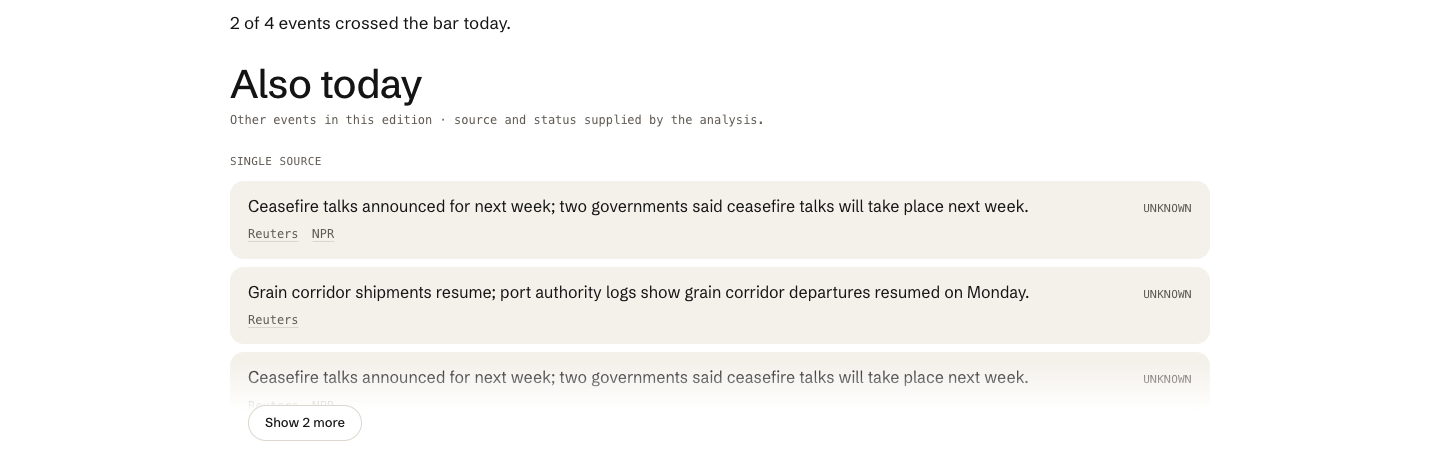
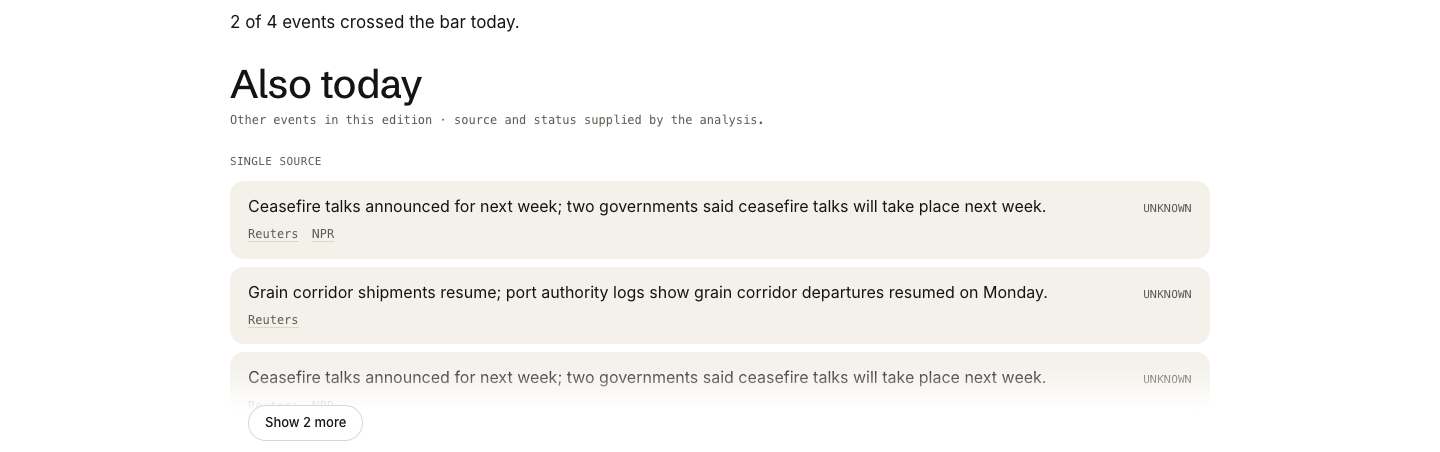
web(cabinet): Inter as the interface face on the app routes; DECISIONS item 9 amended
From Anastasia's name as the look owner, with Vadim's agreement given in
person (his on-record confirmation requested in Issue #2): item 9 of
DECISIONS › User account and interface now sets the signed-in app
routes' interface text in Inter and keeps Schibsted for headlines, card
titles, the landing and the gate screens; the earlier whole-portal
clause stays marked superseded. `--ui` is Inter again; the interim
alias of cdfbd8d is recorded as superseded. Review pictures re-taken.

diff --git a/web/app/identity.css b/web/app/identity.css
@@ -27,12 +27,12 @@
      metadata in the mono; the landing and the gate keep --body. Why: Anastasia's reference of 2026-10-27,
      untitled.stream, sets everything in one neutral UI grotesque at small sizes with mono metadata, and the
      cabinet should read as a tool rather than a front page. DECISIONS item 9 is amended once she approves. */
-  /* DECISION(2026-10-27, Anastasia/Claude Code; Vadim's review of PR #62): the interface face on the app routes stays
-     the canonical grotesque of DECISIONS › User account and interface item 9, so `--ui` aliases `--body`; the Inter
-     proposal above is deferred, not deleted: a font change follows an explicit amendment of item 9 with human
-     approval, and then this one line changes. Why: AGENTS.md §1, no code contradicting a canonical decision while
-     its amendment is pending. Deferred value: "Inter Variable", -apple-system, system-ui, sans-serif. */
-  --ui: var(--body);
+  /* DECISION(2026-10-27, Anastasia/Claude Code, agreed with Vadim in person): the interface face on the app routes is
+     Inter, per DECISIONS › User account and interface item 9 as amended 2026-10-27 from Anastasia's name; headlines,
+     card titles, the landing and the gate screens keep Schibsted. The interim state of PR #62's head cdfbd8d
+     (`--ui: var(--body)` while the amendment was pending) is superseded by that amendment. Why: untitled.stream's
+     lesson, one neutral UI grotesque for interface text and the display face for titles. */
+  --ui: "Inter Variable", -apple-system, system-ui, sans-serif;
   --mono: ui-monospace, "SF Mono", Menlo, Consolas, monospace;
   /* DECISION(2026-10-26, Anastasia/Claude Code): one page measure for every route: content in a centred column
      of 1024 px including 22 px gutters (980 px of text), as on apple.com; a full-width bar or section reads

diff --git a/docs/DECISIONS.md b/docs/DECISIONS.md
@@ -150,13 +150,13 @@ The account is built around the topics the user selects. The interface is simple
 6. **Roundup page** — "Also today": one line per event below the bar, grouped, with source and status.
 7. **History** — a tab on the topic page, by day, labeled like "digest for 10/12/2026".
 8. **Shift in party positions** — under the topic, outside the days. Implemented after the hackathon; data accumulates from day one.
-9. **Type and color.** Display: SF Pro Rounded via the CSS generic `ui-rounded` (Safari, iOS), with Nunito as the fallback elsewhere, packaged locally from npm like Inter (2026-10-25, Anastasia: the portal makes no request to Google Fonts or any other third-party host; the earlier wording "Nunito from Google Fonts" is superseded, the font is the same). Body: the system font, with Inter as the fallback. White background, one red accent for the date, cohort colors blue (left) and red (right), darker for big outlets and lighter for small ones. Status words, not colored pills. *Palette amended 2026-10-26 (Anastasia, WEB-UX-04; the "one red accent" clause is superseded, kept here as history):* the identity is a newspaper's, black ink on white paper with warm greys and one umber-brown accent for the date line, markers and hover states; no red in the identity, because a red accent reads as a brand line rather than a paper. The cohort colours blue (left) and red (right) stay as data colours in cohort comparisons only, never as decoration. Named tokens: `web/DESIGN.md`. *Type amended 2026-10-26 (Anastasia, WEB-UX-04; the rounded display clause above is superseded for the landing, kept as history):* the landing is set in one grotesque drawn for a news publisher, Schibsted Grotesk, packaged from npm, at weights 400/500/700 with headlines at 500 and no uppercase except 12 px monospace kickers, the register of a wire service (Reuters and AP each set everything in one grotesque, headlines at medium or bold, timestamps small and grey). The app routes followed on 2026-10-26 (WEB-UX-04): a token layer (`web/app/workspace.css`) re-points the shared stylesheet's variables at the identity tokens and replaces the serif display face with the same grotesque, so the whole portal reads as one paper; cohort and status colours of the analysis views stay as data colours; Yelysei's prototype canvas keeps its rounded face as the record of the flows. This is the portal's visual identity; the neutral-teal palette hold recorded under "Portal reconciliation limits" is superseded 2026-10-25 in favour of this item (see there).
+9. **Type and color.** Display: SF Pro Rounded via the CSS generic `ui-rounded` (Safari, iOS), with Nunito as the fallback elsewhere, packaged locally from npm like Inter (2026-10-25, Anastasia: the portal makes no request to Google Fonts or any other third-party host; the earlier wording "Nunito from Google Fonts" is superseded, the font is the same). Body: the system font, with Inter as the fallback. White background, one red accent for the date, cohort colors blue (left) and red (right), darker for big outlets and lighter for small ones. Status words, not colored pills. *Palette amended 2026-10-26 (Anastasia, WEB-UX-04; the "one red accent" clause is superseded, kept here as history):* the identity is a newspaper's, black ink on white paper with warm greys and one umber-brown accent for the date line, markers and hover states; no red in the identity, because a red accent reads as a brand line rather than a paper. The cohort colours blue (left) and red (right) stay as data colours in cohort comparisons only, never as decoration. Named tokens: `web/DESIGN.md`. *Type amended 2026-10-26 (Anastasia, WEB-UX-04; the rounded display clause above is superseded for the landing, kept as history):* the landing is set in one grotesque drawn for a news publisher, Schibsted Grotesk, packaged from npm, at weights 400/500/700 with headlines at 500 and no uppercase except 12 px monospace kickers, the register of a wire service (Reuters and AP each set everything in one grotesque, headlines at medium or bold, timestamps small and grey). The app routes followed on 2026-10-26 (WEB-UX-04): a token layer (`web/app/workspace.css`) re-points the shared stylesheet's variables at the identity tokens and replaces the serif display face with the same grotesque, so the whole portal reads as one paper; cohort and status colours of the analysis views stay as data colours; Yelysei's prototype canvas keeps its rounded face as the record of the flows. This is the portal's visual identity; the neutral-teal palette hold recorded under "Portal reconciliation limits" is superseded 2026-10-25 in favour of this item (see there). *Interface face amended 2026-10-27 (Anastasia / Claude Code, PR #62, agreed with Vadim in person; the clause above that the app routes set everything in the same grotesque "so the whole portal reads as one paper" is superseded 2026-10-27, Anastasia with Vadim's agreement, kept as history):* the interface text of the signed-in app routes (the board, the workspace, the account page, menus, controls, forms, status lines) is set in Inter, packaged locally from npm as before; headlines and card titles on those routes, the landing and the gate screens stay in Schibsted Grotesk; metadata (counts, states, dates, sources, the publication colophon) in the monospace. Tokens: `--ui` (Inter), `--display` and `--body` (Schibsted), `--mono`, in `web/app/identity.css`. Why: the cabinet pass after untitled.stream (web/DESIGN.md › Cabinet): one neutral UI grotesque for what is read as interface and the publisher's grotesque for what is read as a title, each section showing only what it needs.
 10. **Daily-brief feedback (2026-10-25, Yelysei's proposal; amended 2026-10-26 per his review of PR #22 to the agreed status contract).** After the user asks for a brief (a requested topic, or a topic whose edition for the viewed date is not installed), the page says what is actually happening and what comes next, driven by the per-topic status file the reasoning runner writes (`<status-root>/<topic>/<date>.json`, states `queued`, `running`, `published`, `failed`, `waiting_for_key`): no file or `queued` → "Waiting for its first brief"; `running` or `waiting_for_key` → "Brief being prepared (since HH:MM UTC)"; `published` → "Ready"; `failed` → "Could not be prepared", with the reason. The facts the copy may state: runs are started by the owner after the 05:30 New York cut, on the owner's machine; a topic's first documents arrive 45–75 minutes after its collection row exists (about 10 minutes with `collectors.run --topic`); the edition is shown from the user's delivery time once the deploy owner has installed it. The portal has no "collecting since" date or publication count for a topic (a requested topic has no row at all), so the copy never shows them. The web app starts nothing itself (see "Daily editions for users"), so the page never promises a time it does not control. The wording is Yelysei's to approve; every sentence rests on a real state or an installed edition, never a placeholder.
 11. **Landing page (2026-10-25, Yelysei's proposal).** A public page for visitors and judges that presents Quorum as an Open Agent Hackathon 2026 entry (Track 03, Reasoning Architecture): the problem and the user, how the agents work and where they loop back, a real trace, what Zetaris, Meterless, NVIDIA Nemotron and the development tools do in the build, honest limits, and the team. Quality bar named in the proposal: greentrace-eudr.higgsfield.app and saphan.ai. Everything shown on it is backed by committed repository files; a real trace appears only as a public-safe excerpt the reasoning owner commits, and edition content stays behind the login under the publication gate (› Portal reconciliation limits, › Shared development coordination); nothing fictional is presented as a result.
 
 **Source-map navigation amendment (2026-10-26, Vadim / rcc00n, implemented with Codex).** The signed-in app adds `/sources`, reached through **Sources** between History and My topics (the "My topics" label superseded 2026-10-27 by the cabinet navigation amendment below: between History and Account). It presents the existing source registry, the four external rating modes and the agreed position × logarithmic cited-audience diagram, with source inspection and provenance. It describes registry sources, not which sources covered the current event. No new model call, axis, rating, audience estimate or backend contract. This supersedes only the earlier three-link navigation arrangement, retained in web/DESIGN.md as historical; the reading-first home and analysis appendices stay. Why: Vadim requested a separate frontend branch with a stronger interactive political spectrum and motion; the diagram needs a direct entry point instead of being buried under a story.
 
-**Cabinet navigation amendment (2026-10-27, Anastasia / Claude Code, PR #62; recorded here on Vadim's review).** The signed-in menu reads **Home · History · Sources · Account**. The Today board is labelled Home and owns topic management: the first-setup topic picker opens inline under the board's header behind a "+ Add topics" pill ("Choose topics" when the account follows none) and saving reloads the board; the settings page is labelled Account and holds name, email, password and sign out. The "My topics" page and the Today label of the source-map amendment above are superseded 2026-10-27 and kept as history; the routes stay `/dashboard` and `/settings`. The board's countdown before 05:30 New York names the data cutoff ("Data cutoff in N hours"; the waiting card: a cutoff, not a publication time; the status strip's fact row "Data cutoff"), accepted by Vadim in the same review: the number is the end of data collection, and the run, dump and installation follow at no time the page can know. The interface face on the app routes stays item 9's grotesque; the cabinet pass's proposal of Inter for interface text is deferred until item 9 is amended with human approval, and is kept in web/DESIGN.md › Cabinet as history. Why: Anastasia's cabinet brief of 2026-10-27 after untitled.stream, topics managed where they are read and one thing per section; Vadim's review of PR #62 (AGENTS.md §1: no code contradicting a canonical decision while its amendment is pending). Details and screenshots: web/DESIGN.md › Cabinet, docs/reviews/2026-10-27-web-cabinet.
+**Cabinet navigation amendment (2026-10-27, Anastasia / Claude Code, PR #62; recorded here on Vadim's review).** The signed-in menu reads **Home · History · Sources · Account**. The Today board is labelled Home and owns topic management: the first-setup topic picker opens inline under the board's header behind a "+ Add topics" pill ("Choose topics" when the account follows none) and saving reloads the board; the settings page is labelled Account and holds name, email, password and sign out. The "My topics" page and the Today label of the source-map amendment above are superseded 2026-10-27 and kept as history; the routes stay `/dashboard` and `/settings`. The board's countdown before 05:30 New York names the data cutoff ("Data cutoff in N hours"; the waiting card: a cutoff, not a publication time; the status strip's fact row "Data cutoff"), accepted by Vadim in the same review: the number is the end of data collection, and the run, dump and installation follow at no time the page can know. The interface face on the app routes is Inter per item 9 as amended 2026-10-27 from Anastasia's name with Vadim's agreement (headlines, card titles, the landing and the gate screens stay in Schibsted). Why: Anastasia's cabinet brief of 2026-10-27 after untitled.stream, topics managed where they are read and one thing per section; Vadim's review of PR #62 (AGENTS.md §1: no code contradicting a canonical decision while its amendment is pending). Details and screenshots: web/DESIGN.md › Cabinet, docs/reviews/2026-10-27-web-cabinet.
 
 ## Stack and work blocks
 
@@ -292,7 +292,8 @@ Every change to this document gets a row here. Newest rows on top. Rules are in 
 
 | Date | Who (human / tool) | What was decided | Why |
 | --- | --- | --- | --- |
-| 2026-10-27 | Anastasia / Claude Code (PR #62, recorded on Vadim's review) | Signed-in menu Home · History · Sources · Account; topics managed on Home behind "+ Add topics" (the My topics page superseded, kept as history); settings page labelled Account; the board's countdown says "Data cutoff", not a publication time; the Inter interface-face proposal deferred, app routes keep item 9's Schibsted (`--ui` aliases `--body`). See › User account and interface, cabinet navigation amendment. | Anastasia's cabinet brief after untitled.stream; Vadim's review: AGENTS.md §1 forbids merging code that contradicts item 9 while its amendment is pending; a font change follows an explicit human-approved amendment. |
+| 2026-10-27 | Anastasia / Claude Code (PR #62), agreed with Vadim in person; his on-record confirmation requested in Issue #2 (comment 6436695124) | Item 9 amended: Inter is the interface face on the signed-in app routes; Schibsted Grotesk stays for headlines, card titles, the landing and the gate screens; metadata in the monospace; the earlier whole-portal clause kept, marked superseded. | The cabinet pass after untitled.stream: one neutral UI grotesque for interface text, the publisher's grotesque for titles; Vadim's review of PR #62 required the canonical amendment rather than code ahead of the decision. |
+| 2026-10-27 | Anastasia / Claude Code (PR #62, recorded on Vadim's review) | Signed-in menu Home · History · Sources · Account; topics managed on Home behind "+ Add topics" (the My topics page superseded, kept as history); settings page labelled Account; the board's countdown says "Data cutoff", not a publication time; see › User account and interface, cabinet navigation amendment. | Anastasia's cabinet brief after untitled.stream; Vadim's review of PR #62 asked for the canonical record beside the module docs. |
 | 2026-10-27 | rcc00n / Codex, explicit instruction by Vadim | Authorize checked, visually inspected #54 and Paperclip-inspired polish deployment without another approval request, retaining individual-feature releases/rollback and normal CI/security gates. | Deliver the requested refinements incrementally without waiting on an extra look-approval step; preserve all data and other owners' scope. |
 | 2026-10-27 | rcc00n / Codex, production UI/UX audit requested by Vadim | Preserve date/topic URL state and contextual History; add calendar-day controls and bounded local sign-in return destinations. | Actual production navigation lost historical editions on refresh/History and shared-story context at sign-in; retain the approved identity and truthful edition states. |
 | 2026-10-27 | rcc00n / Codex | Add shared local destination search over loaded edition topics/stories, app pages and current-story analysis views; preserve exact date/revision links. | Faster navigation throughout the app without new API/inference requests or paid tooling. |

diff --git a/web/DESIGN.md b/web/DESIGN.md
@@ -97,7 +97,7 @@ No icons on the landing (2026-10-26); the app routes keep Lucide, 20 px, stroke 
 
 | Date | Who | What | Why |
 | --- | --- | --- | --- |
-| 2026-10-27 | Anastasia / Claude Code (cabinet pass, branch `anastasia/web-cabinet`) | The signed-in pages after untitled.stream (see › Cabinet): the board carries the topic picker behind a "+ Add topics" pill and opens it inline; one mono metadata line under the title replaces the status prose; the plain publication line becomes a mono colophon at the foot (warnings stay on top); "Also today" gets a heading of the title's weight, mono kickers and low rounded rows; the settings page becomes Account (name, email, password, sign out); the menu reads Home · History · Sources · Account; interface text on the app routes was proposed in Inter with display headings and mono metadata; deferred on Vadim's review of PR #62 (the app routes keep DECISIONS item 9's Schibsted, `--ui` aliases `--body`), the mono metadata stays; the menu labels, the topic relocation and the cutoff wording are recorded canonically in docs/DECISIONS.md › User account and interface (cabinet navigation amendment). Honesty texts unchanged; the smoke test reads the picker on the board. | Anastasia's review of 2026-10-27: the home should show the title with the date and then the topics with their news, nothing else; topics are managed where they are read; "Also today" should read as the second part after Today in rows that echo the cards; the reference's discipline of one thing per section, metadata in mono and a single "+" to add. |
+| 2026-10-27 | Anastasia / Claude Code (cabinet pass, branch `anastasia/web-cabinet`) | The signed-in pages after untitled.stream (see › Cabinet): the board carries the topic picker behind a "+ Add topics" pill and opens it inline; one mono metadata line under the title replaces the status prose; the plain publication line becomes a mono colophon at the foot (warnings stay on top); "Also today" gets a heading of the title's weight, mono kickers and low rounded rows; the settings page becomes Account (name, email, password, sign out); the menu reads Home · History · Sources · Account; interface text on the app routes in Inter with display headings and mono metadata, adopted by amending DECISIONS item 9 from Anastasia's name with Vadim's agreement; the menu labels, the topic relocation and the cutoff wording are recorded canonically in docs/DECISIONS.md › User account and interface (cabinet navigation amendment). Honesty texts unchanged; the smoke test reads the picker on the board. | Anastasia's review of 2026-10-27: the home should show the title with the date and then the topics with their news, nothing else; topics are managed where they are read; "Also today" should read as the second part after Today in rows that echo the cards; the reference's discipline of one thing per section, metadata in mono and a single "+" to add. |
 | 2026-10-27 | Anastasia / Claude Code (WEB-SPECTRUM-POLISH-02, in Vadim's spectrum files with his agreement, Issue #2 6434220669 and 6434238558) | Source spectrum polish: registry-bound labels on the marks (major-tier `id` badges always on from 701 px, names on hover, focus and selection; collision stacking; phone badges only on the selected mark), the ledger behind a closed native disclosure with the count in its summary and the official and institutional sources grouped by `kind`, a 340 px field on phones, and a registry cohort table (`lib/spectrum-cohorts.ts`, exact node test) whose denominators are stated, whose audience column is the share of the supplied cited estimates summed as supplied (not deduplicated reach, not unique people), and where an uncited audience is counted apart, never as zero, so a cohort with members but no cited estimate shows no share (amended on Vadim's review of PR #52). Source ids, the four-mode formulas, keyboard navigation, reduced motion and the provenance disclosures are unchanged; his tests are extended, not replaced (the ledger is opened before a row is clicked; the source list is checked for completeness rather than feed order, since institutional rows now close the list). | Anastasia's review of the Sources page (Issue #2 6434191902): the field could not be read without the inspector, forty open rows made the page six screens long on a phone, and the cohorts DECISIONS defines were not shown; Vadim accepted the scope and asked for registry-derived labels and groups, stated denominators and no change to the formulas. |
 | 2026-10-27 | Anastasia / Claude Code | Missing-photo placeholder (polish pass, branch `anastasia/web-polish`): the story's lead slot and the Today cards show a blurred field of the identity's colours with the honest line "Imagine a photo here." and, on the story, one sentence saying the feature did not fit in the hackathon; the fill is `aria-hidden`, the sentence plain text, ink at about 11:1 on the field; a deliberate joke that states plainly what is missing. Same pass: a title per route, an SVG favicon in ink, the 404 and error pages on the gate surface with the masthead, the claims-only story appendix as blocks, the hero sheet's figures unwrapped on phones. | Anastasia's request of 2026-10-27 ("imagine that there were photos; we did not have time to add this feature"): an empty frame read as a bug, DECISIONS › Photos allows no photo, and a placeholder that says so cannot be mistaken for a photograph. |
 | 2026-10-26 | Anastasia / Claude Code | Story page (the event route when the reasoning output supplied a readable article; WEB-UX-05), chosen by a design panel of three directions (the printed page, nothing between, evidence in the margin) with a reader, a judge and a critic, "the printed page" with grafts: the breadcrumb and the lead photo on the 980 px column (2:1, 3:2 on phones, 8 px corners, the credit overlaid bottom right with the identity's one text shadow), every text element on a centred 560 px measure (date in ink, headline 40 px, grey standfirst, a counted meta line, the DECISIONS key line in the anatomy's slot, body 18/1.65), the sources as 12 px grey words after each paragraph (official titles and registry names, supporting citations only, one per independence group, "{speaker} says" only when the sentence lacks the name, a status word and no outlet after "Not confirmed."), two-digit claim keys shared with the Evidence Explorer's numbering, a hairline on the measure, the appendix head "Across the spectrum · Evidence and investigation" with a data line only from coverage and the importance row moved there; the workspace's sections unchanged beneath, their heads on the measure, eyebrows and icons hidden by CSS; the claims view untouched when no article exists. Since the same evening the reasoning preview fills `event.article` (backend/README.md › Decisions) and the event route reads the preview with `?preview=1`, so a reasoning story is readable as a story; on that path the claims come from `event.reasoning` and the marks carry names and links without claim keys. The production projection still emits no article. | Anastasia's brief of 2026-10-26: the prototype's indentation, ease of reading and photos, in our identity; Yelysei's story-page specification; DECISIONS › Stories as articles (status by typography, no evaluation, an appendix a reader need not reach). Pending: "Across the spectrum" per Yelysei's decision of 2026-10-26 (Issue #2, issuecomment-6425000264) corrected the same evening (issuecomment-6425781528): one paragraph per flank (left, right, centre when present; a paragraph per outlet only where a flank's outlets differ), answering in order what the outlets set out to convey, whether they present the fact as good or bad, who they hold responsible, why, and what they say should happen next, a question not addressed simply left out; every sentence backed by a short verbatim quote checked by code, shown as a link; it arrives as one new optional key inside `spectrum` with the reasoning PR (ARCHITECTURE § 8 and a sample), behind a flag until the portal's parser accepts the key; the page renders the current fields until then. |
@@ -120,7 +120,7 @@ Anastasia's reference of 2026-10-27, read from two screenshots of untitled.strea
 
 Adapted on the paper identity (the dark ground is not taken; the landing is untouched):
 
-- **Type on the app routes (proposal, deferred 2026-10-27 on Vadim's review of PR #62: the app routes keep the canonical Schibsted of DECISIONS item 9 and `--ui` aliases `--body` until item 9 is amended with human approval; the proposal stays here as history).** Interface text in Inter (`--ui`, already packaged) at 15/1.5, secondary 13 in `--ink-2`; headings and card titles stay in the display face at 500; metadata (counts, states, dates, the publication colophon, the roundup's statuses and sources) in the mono at 11–12.5 px. The landing and the gate screens keep Schibsted throughout.
+- **Type on the app routes (adopted 2026-10-27: DECISIONS item 9 amended from Anastasia's name with Vadim's agreement, after his review of PR #62 asked for the canonical amendment; the interim head cdfbd8d had `--ui` aliasing `--body`).** Interface text in Inter (`--ui`, already packaged) at 15/1.5, secondary 13 in `--ink-2`; headings and card titles stay in the display face at 500; metadata (counts, states, dates, the publication colophon, the roundup's statuses and sources) in the mono at 11–12.5 px. The landing and the gate screens keep Schibsted throughout.
 - **Home** (the board, menu label "Home"; the menu is Home · History · Sources · Account): the title "Today, 27 October 2026" (or "Edition, …" for another day), under it one mono line (the topic count, then a status sentence only when there is one), at the right the date control and the "+ Add topics" pill (ink hairline, round; inverted while open). The pill opens the first setup's topic picker inline under the header; saving reloads the board. With no topics the picker is open and the pill reads "Choose topics". The plain publication line moves to the foot of the page as a mono colophon; the warning panel (stale, partial, error) stays at the top. Topic sections: display heading 24 px, state in mono at the right, the row of cards unchanged.
 - **Also today** (the roundup under the board; markup Vadim's, styled here): the day's digest sentence at 17 px, the heading at the title's weight (clamp 30–40 px), the help line in mono, each status group as a mono kicker, each event as a low rounded row the width of the column (`--paper-2`, 14 px corners): the line at 16 px, its status label in mono at the right, its sources beneath in mono; on phones the label drops under the line. A status group with more than three events folds at the third: the first two rows whole, the third cut at 58 px and faded into the paper under a "Show N more" pill (round, ink hairline; "Show fewer" once open), the rest `hidden`; the fold is `components/roundup-group.tsx`, a client wrapper around Vadim's unchanged row markup.
 - **Story cards** (the board's rows): the picture area and the headline, nothing else; the topic name, standfirst, importance, source count and minutes are read on the story page. The headline sits at the foot in the display face (24 px, 36 px on the lead) on a translucent band (black at 46 % over the card's 60 %, about 78 % over the paper, as translucent as dark glass; 58 % over a real photograph) that darkens the same picture or blurred field, which runs under the whole card and fades into the band over its last 128 px with eased stops (a short linear ramp read as a hard edge; a glass pane with a crisp rim was tried and declined); the review label stays above the headline when the producer flagged the story; the "Imagine a photo here." note sits centred in the picture area at the credit's size.

diff --git a/web/README.md b/web/README.md
@@ -81,7 +81,7 @@ Canonical reasoning 1.0 **FICTIONAL local preview** and exact sample pin: [integ
 
 Collected-corpus experiment labels follow [backend/README.md → Decisions](../backend/README.md#decisions). Producer declarations never authorize publication; fixture previews retain their fictional label.
 
-2026-10-27 · Anastasia / Claude Code · Cabinet pass (`anastasia/web-cabinet`): `components/today-board.tsx` owns the topic picker (`TopicPicker` from `topic-picker.tsx`, saved through the existing `preferences` call, then a reload) behind the "+ Add topics" control and renders one mono metadata line (the smoke test's sentences kept verbatim in their own spans); `components/portal.tsx` changes only the menu labels (Home, Account), the Account head and drops the picker from the settings grid; `app/identity.css` adds `--ui` (proposed as Inter; deferred on Vadim's review of PR #62, it aliases `--body`, the canonical face of DECISIONS item 9) and `app/workspace.css` / `app/today.css` set the app routes' interface text in it with display headings and mono metadata, move the plain publication line to the foot on the board (`:has(.tb)`), and style `EditionNote`'s roundup as rounded rows; `tests/browser.cjs` reads the picker on `/dashboard`. Why: Anastasia's cabinet brief of 2026-10-27 after untitled.stream (DESIGN.md › Cabinet); markup of `editorial.tsx` untouched.
+2026-10-27 · Anastasia / Claude Code · Cabinet pass (`anastasia/web-cabinet`): `components/today-board.tsx` owns the topic picker (`TopicPicker` from `topic-picker.tsx`, saved through the existing `preferences` call, then a reload) behind the "+ Add topics" control and renders one mono metadata line (the smoke test's sentences kept verbatim in their own spans); `components/portal.tsx` changes only the menu labels (Home, Account), the Account head and drops the picker from the settings grid; `app/identity.css` adds `--ui` (Inter, the interface face of the app routes per DECISIONS item 9 as amended 2026-10-27) and `app/workspace.css` / `app/today.css` set the app routes' interface text in it with display headings and mono metadata, move the plain publication line to the foot on the board (`:has(.tb)`), and style `EditionNote`'s roundup as rounded rows; `tests/browser.cjs` reads the picker on `/dashboard`. Why: Anastasia's cabinet brief of 2026-10-27 after untitled.stream (DESIGN.md › Cabinet); markup of `editorial.tsx` untouched.
 2026-10-27 · Anastasia / Claude Code · Spectrum polish (WEB-SPECTRUM-POLISH-02, branch `anastasia/web-spectrum-polish`, Vadim's files with his agreement): `components/spectrum-field.tsx` exports `markLabel` and `labelLayout` (registry id badge for `tier === "major"`, name otherwise; edge anchoring and collision stacking) and renders an `aria-hidden` label in every mark; `components/spectrum.tsx` wraps the source rows in `details.sp-ledger` (closed by default, summary "All N sources") with `kind` official/military rows grouped last, and renders the registry cohort table from `lib/spectrum-cohorts.ts` (pure; `tests/spectrum-cohorts.cjs` binds exact values, mode change, null rating, zero and absent audience); `app/spectrum.css` carries the styles and the 340 px phone field. Tests extended: `spectrum-checks.cjs` (labels, cohort counts per mode), `sources-route-checks.cjs` (closed ledger, completeness by name, institutional group), `analysis.cjs` (opens the ledger before a row click). Why: Anastasia's review of the Sources page; the DECISIONS cohorts were defined but not shown; Vadim's limits (ids, formulas, keyboard, reduced motion, provenance intact; no dependency, no contract change).
 
 2026-10-27 · Anastasia / Claude Code · Polish pass (`anastasia/web-polish`, from master): `components/story.tsx` renders `PhotoMissing` in the lead slot when the article has no licensed photo (the blurred field and the sentence are constants there; styles in `app/story.css`), and `components/today-board.tsx` adds `tb-card-media-missing` with a short note (`app/today.css`); each route wrapper under `app/` exports its own `metadata.title` for the layout's `%s · Quorum` template; `app/icon.svg` is the favicon; `app/not-found.tsx` and `app/error.tsx` render on the gate surface with the masthead; `.story-page-plain .analysis-section` is a block; the hero sheet's figures do not wrap under 700 px. No file under `lib/`, no API contract, no spectrum component and no test selector changed. Why: the rough edges a judge meets first (an empty photo frame, an unreadable 404 button, overlapping appendix headings, one tab title everywhere) without touching the owners' contracts; see DESIGN.md › Decisions 2026-10-27.
